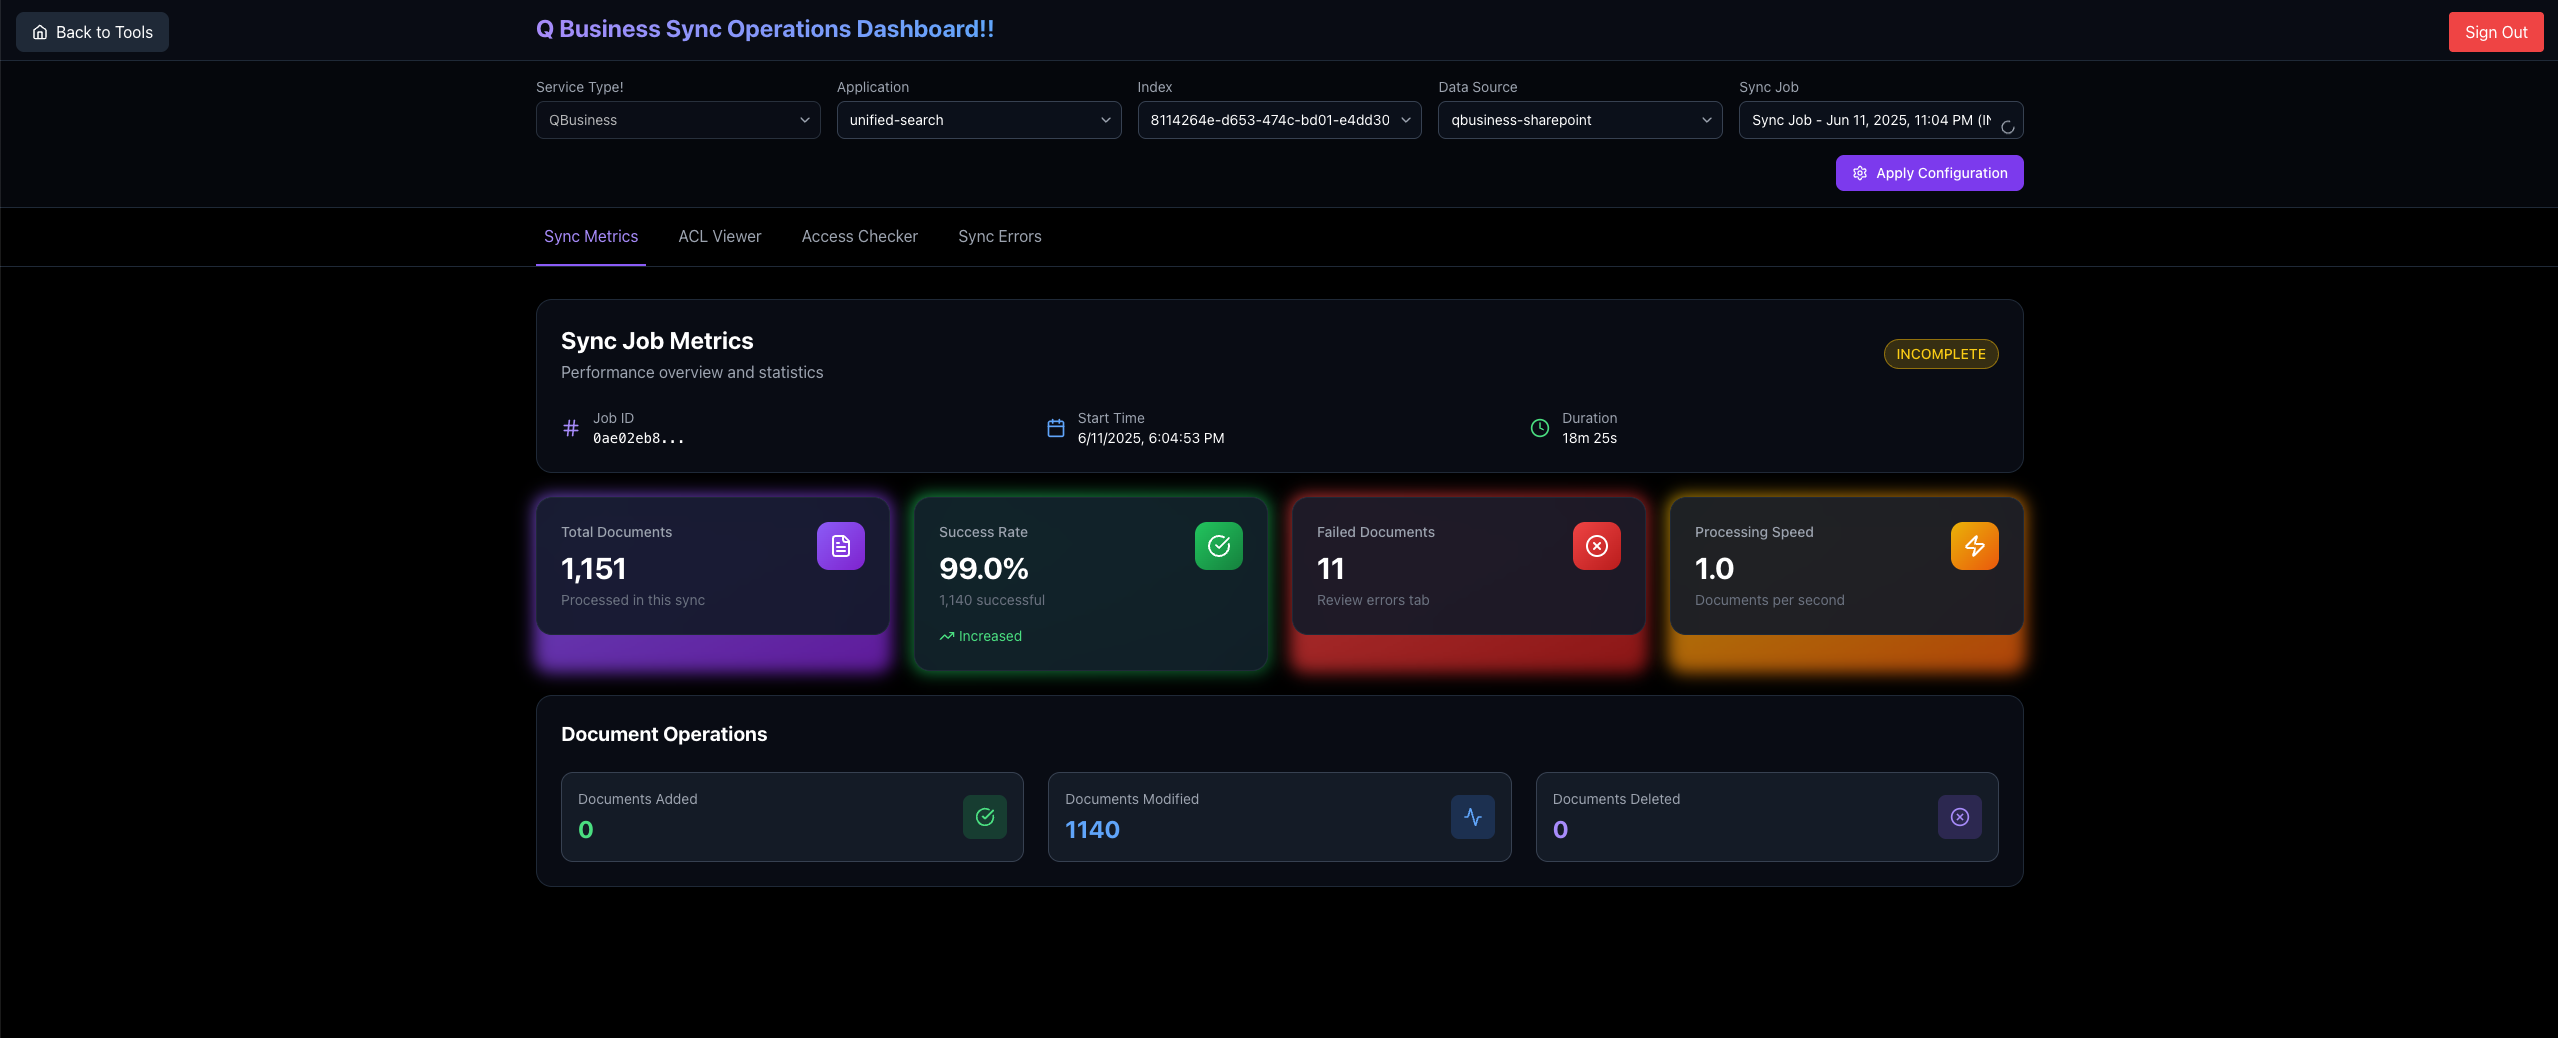
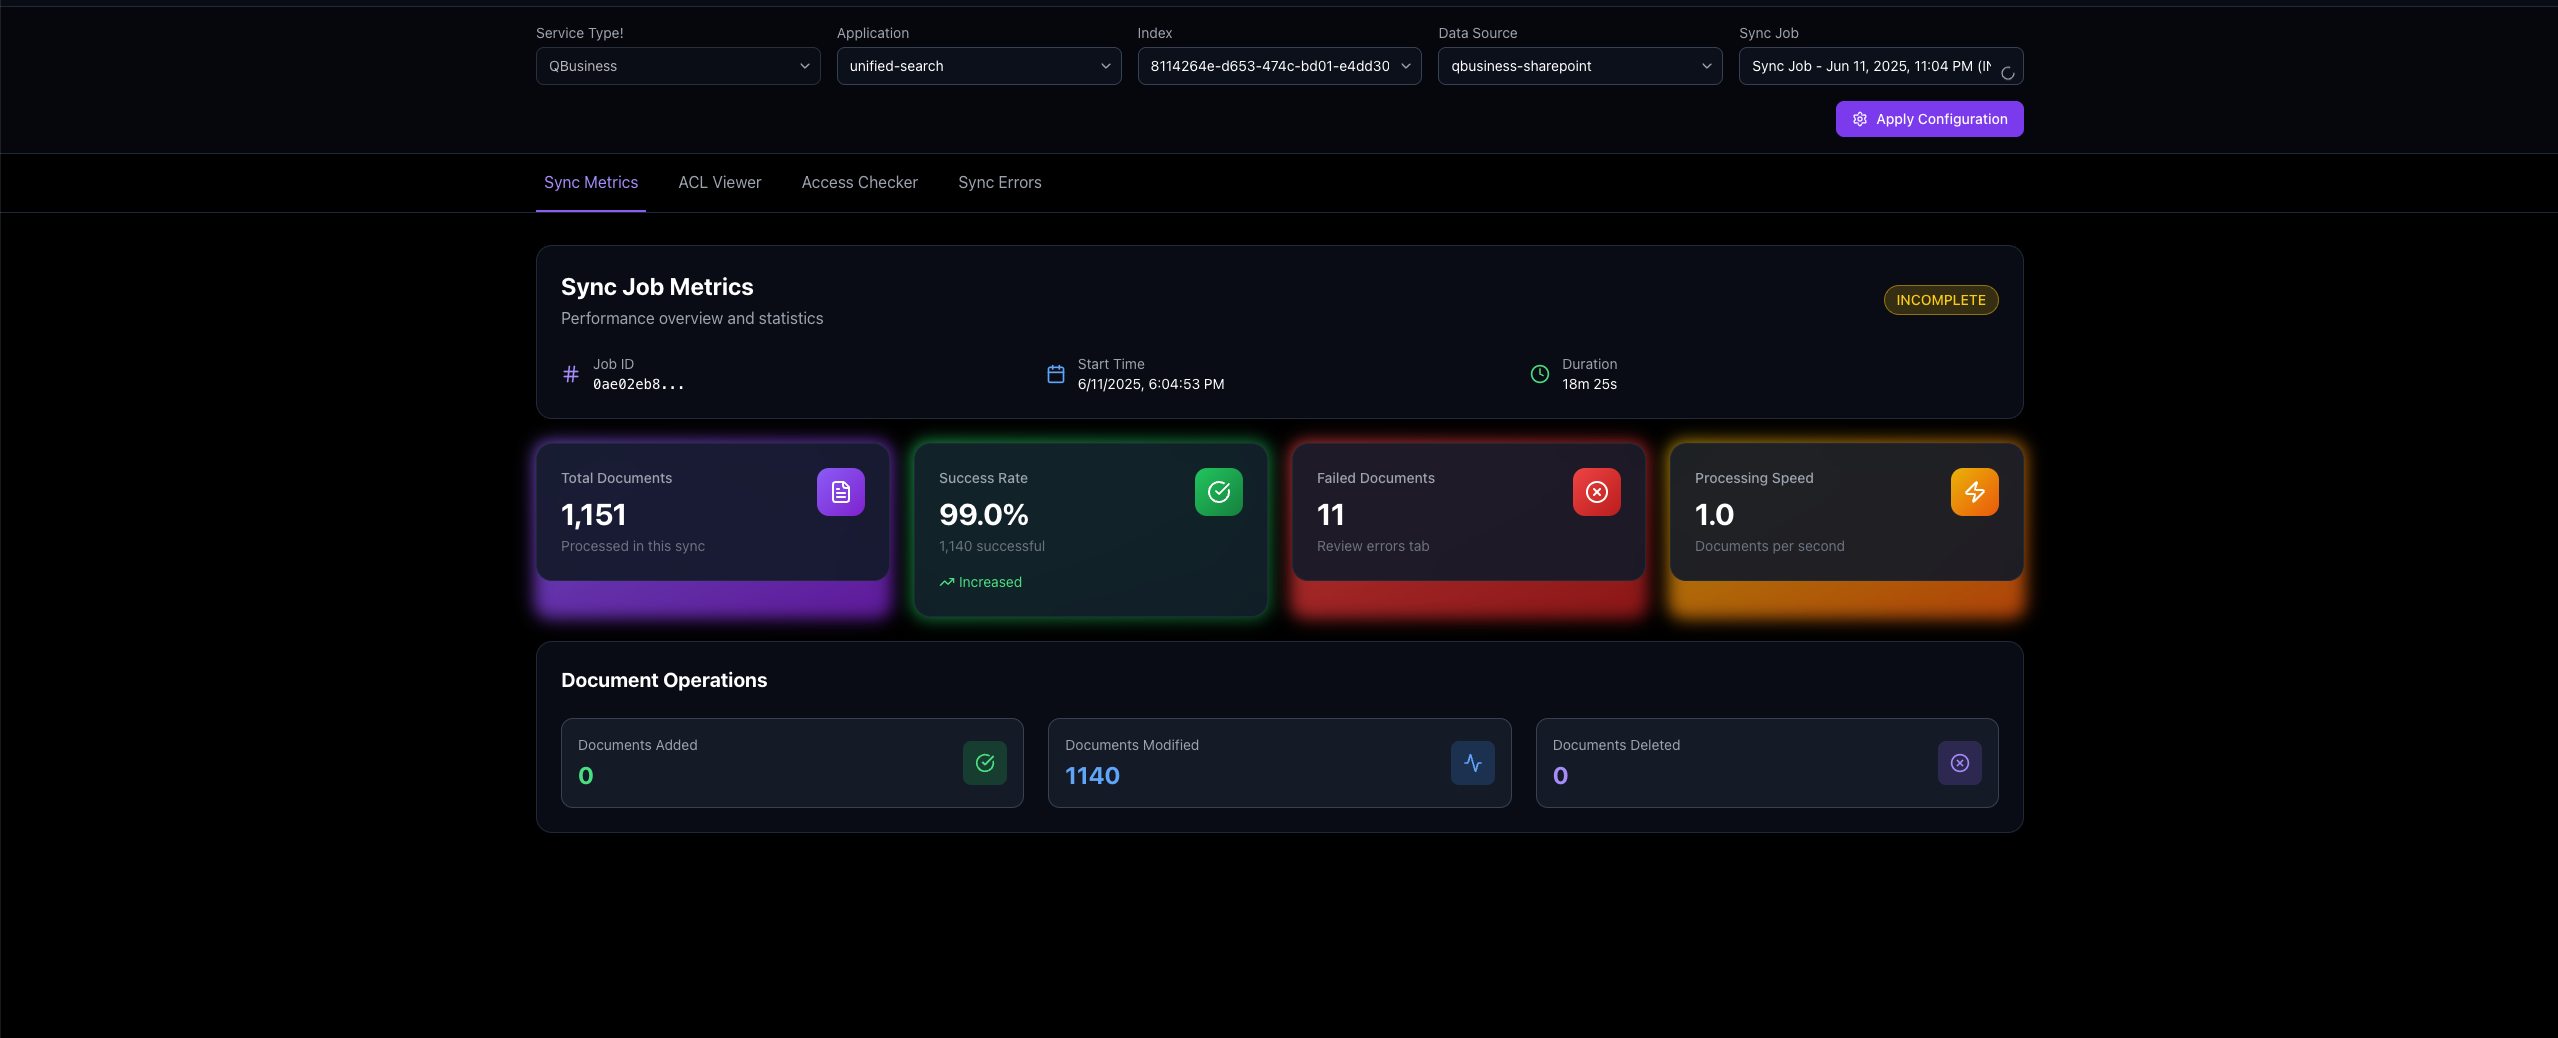
Removed exclamation marks in title

diff --git a/frontend/src/components/operations/Dashboard.tsx b/frontend/src/components/operations/Dashboard.tsx
@@ -274,7 +274,7 @@ const Dashboard: React.FC<DashboardProps> = ({ config, onConfigChange }) => {
         <div className="container mx-auto px-6 py-4 flex justify-between items-center">
           <h1 className="text-2xl font-bold bg-gradient-to-r from-purple-400 to-blue-400 bg-clip-text text-transparent">
             {isQBusinessConfig
-              ? 'Q Business Sync Operations Dashboard!!'
+              ? 'Q Business Sync Operations Dashboard'
               : 'Kendra Sync Operations Dashboard'}
           </h1>
         </div>
